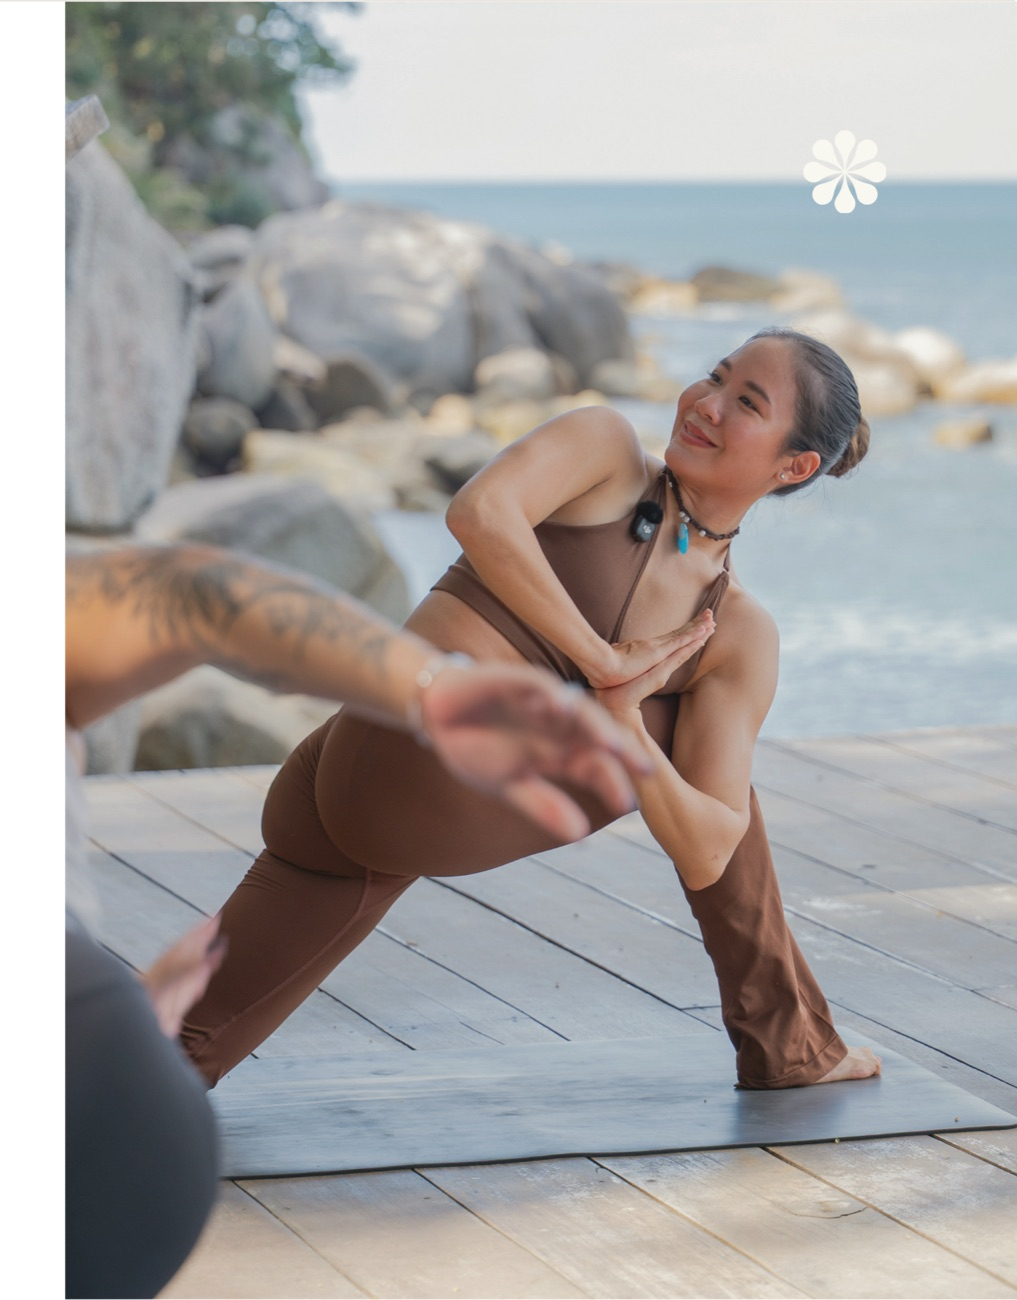
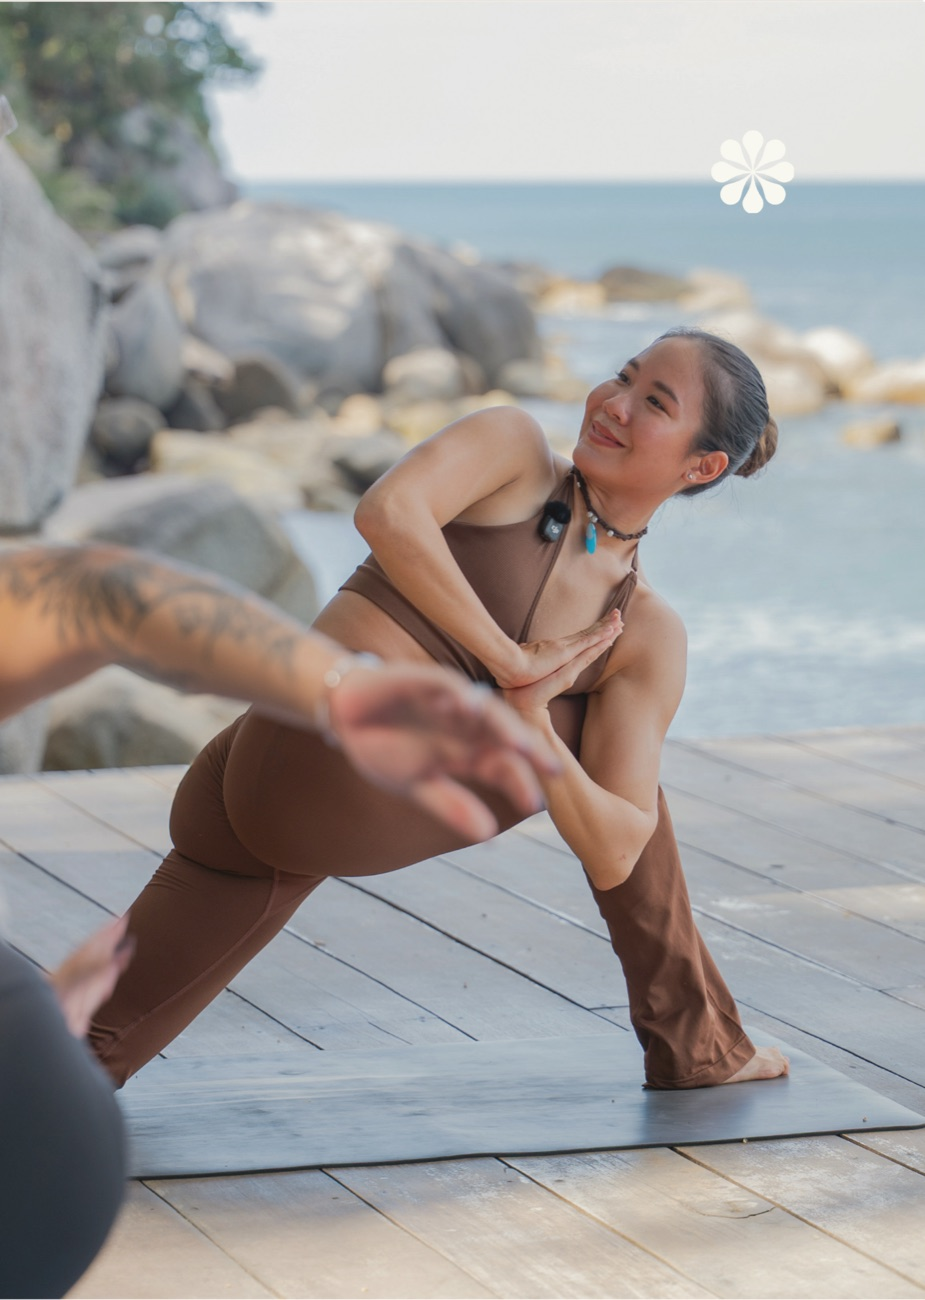
fix(home): match Canva exactly — MOVE / instructor / Glimpse / footer
Pulled the real Canva Home render (Canva MCP) and matched each section:
- MOVE: slate blue-grey text, subtitle breaks 'where island breeze / and ocean
  calm meet', real B&W 3-person beach photo (no CSS filter), square palm icon
  (palm-circle.png) in the lower-left corner.
- MEET YOUR INSTRUCTOR: 'Soulena Soul' larger than 'Simply move with';
  instructor photo re-cropped to remove the white border.
- Glimpse: title now curves around the photo cluster (A GLIMPSE INTO over the
  top, MY WORKING SPACE under the bottom) with overlapping circles.
- Footer: white text over a warmer overlay so the hands-and-flower photo reads.
- layout: suppressHydrationWarning on <body> (silences the Grammarly-extension
  hydration warning that showed as '1 Issue' in dev).

diff --git a/src/components/Footer.tsx b/src/components/Footer.tsx
@@ -5,7 +5,7 @@ import { FlowerIcon } from "@/components/icons/SocialIcons";
 
 function DiscountBadge() {
   return (
-    <div className="relative w-28 h-28 md:w-40 md:h-40 shrink-0 text-brand-charcoal">
+    <div className="relative w-28 h-28 md:w-40 md:h-40 shrink-0 text-white">
       <svg
         viewBox="0 0 100 100"
         className="w-full h-full [animation:spin_26s_linear_infinite]"
@@ -23,7 +23,7 @@ function DiscountBadge() {
       <div className="absolute inset-0 flex flex-col items-center justify-center text-center leading-none">
         <span className="text-[9px] md:text-[10px] uppercase tracking-wider">New Student</span>
         <span className="font-serif italic text-2xl md:text-3xl my-0.5">10%</span>
-        <span className="text-[6px] md:text-[7px] text-brand-charcoal/60 leading-tight">
+        <span className="text-[6px] md:text-[7px] text-white/70 leading-tight">
           *For Weekend
           <br />
           Beach Classes only
@@ -35,7 +35,7 @@ function DiscountBadge() {
 
 export default function Footer() {
   return (
-    <footer className="relative isolate overflow-hidden">
+    <footer className="relative isolate overflow-hidden text-white">
       {/* Hands-with-flowers background */}
       <Image
         src="/images/footer-hands.jpg"
@@ -44,18 +44,19 @@ export default function Footer() {
         sizes="100vw"
         className="object-cover object-center"
       />
-      <div className="absolute inset-0 bg-gradient-to-b from-brand-cream/70 via-brand-cream/25 to-brand-cream/60" />
+      {/* Warm overlay so the light photo reads as a mid-tone under white text */}
+      <div className="absolute inset-0 bg-gradient-to-b from-[#7c7463]/55 via-[#7c7463]/35 to-[#7c7463]/55" />
 
-      <div className="relative z-10 mx-auto max-w-[1200px] px-4 sm:px-6 pt-14 md:pt-20 pb-8">
+      <div className="relative z-10 mx-auto max-w-[1200px] px-4 sm:px-8 pt-16 md:pt-24 pb-8">
         {/* Headline + discount badge */}
         <div className="flex items-start justify-between gap-6">
           <div>
-            <h2 className="font-serif text-[34px] leading-[1.05] md:text-6xl text-brand-charcoal">
+            <h2 className="font-serif text-[38px] leading-[1.02] md:text-6xl text-white [text-shadow:0_1px_10px_rgba(60,52,40,0.35)]">
               Let&apos;s Practice
               <br />
               Together
             </h2>
-            <p className="mt-3 md:mt-4 italic tracking-[0.15em] text-brand-charcoal/55 text-sm md:text-lg">
+            <p className="mt-4 md:mt-5 tracking-[0.18em] text-white/80 text-sm md:text-lg">
               EXPLORE . FOLLOW ALONG
             </p>
           </div>
@@ -63,12 +64,12 @@ export default function Footer() {
         </div>
 
         {/* Navigation */}
-        <nav className="mt-12 md:mt-20 flex flex-wrap gap-x-6 md:gap-x-10 gap-y-2">
+        <nav className="mt-16 md:mt-28 flex flex-wrap gap-x-8 md:gap-x-14 gap-y-2">
           {NAV_LINKS.map((link) => (
             <Link
               key={link.href}
               href={link.href}
-              className="text-sm md:text-base uppercase tracking-wider text-brand-charcoal/80 underline-offset-8 hover:underline hover:text-brand-charcoal transition-colors"
+              className="text-sm md:text-base uppercase tracking-wider text-white/90 underline underline-offset-8 decoration-white/50 hover:text-white hover:decoration-white transition-colors"
             >
               {link.label}
             </Link>
@@ -77,15 +78,15 @@ export default function Footer() {
 
         {/* Tagline rule */}
         <div className="mt-8 flex items-center gap-4">
-          <FlowerIcon className="w-5 h-5 text-brand-olive/70 shrink-0" />
-          <span className="h-px flex-1 bg-brand-charcoal/20" />
-          <span className="text-[11px] md:text-xs uppercase tracking-[0.25em] text-brand-charcoal/55 whitespace-nowrap">
+          <FlowerIcon className="w-5 h-5 text-white/85 shrink-0" />
+          <span className="h-px flex-1 bg-white/35" />
+          <span className="text-[11px] md:text-xs uppercase tracking-[0.25em] text-white/75 whitespace-nowrap">
             Practice with Soulena Soul
           </span>
         </div>
 
         {/* Fine print */}
-        <div className="mt-5 flex flex-col sm:flex-row justify-between gap-1 text-[11px] text-brand-charcoal/45">
+        <div className="mt-5 flex flex-col sm:flex-row justify-between gap-1 text-[11px] text-white/55">
           <span>© {new Date().getFullYear()} Soulena Soul. All rights reserved.</span>
           <span>
             Made in{" "}
@@ -93,7 +94,7 @@ export default function Footer() {
               href="https://craftive.dev/?utm_source=soulenasoul&utm_medium=referral&utm_campaign=footer"
               target="_blank"
               rel="noopener noreferrer"
-              className="underline underline-offset-2 hover:text-brand-charcoal transition-colors"
+              className="underline underline-offset-2 hover:text-white transition-colors"
             >
               Craftive
             </a>

diff --git a/src/components/GlimpseGallery.tsx b/src/components/GlimpseGallery.tsx
@@ -1,50 +1,64 @@
 import Image from "next/image";
 
-type Size = "md" | "lg" | "xl";
-
-const SIZES: Record<Size, string> = {
-  md: "w-28 h-28 md:w-36 md:h-36",
-  lg: "w-32 h-32 md:w-44 md:h-44",
-  xl: "w-36 h-36 md:w-56 md:h-56",
-};
-
-const GLIMPSE: { src: string; size: Size; offset: string }[] = [
-  { src: "/images/gallery-1.jpg", size: "lg", offset: "md:mt-2" },
-  { src: "/images/gallery-3.jpg", size: "md", offset: "md:mt-9" },
-  { src: "/images/gallery-4.jpg", size: "xl", offset: "md:mt-16" },
-  { src: "/images/gallery-5.jpg", size: "md", offset: "md:mt-9" },
-  { src: "/images/gallery-6.jpg", size: "lg", offset: "md:mt-2" },
+const CLUSTER = [
+  { src: "/images/gallery-1.jpg", d: "w-40 h-40 md:w-40 md:h-40 z-10" },
+  { src: "/images/gallery-3.jpg", d: "w-36 h-36 md:w-36 md:h-36 -ml-5 md:-ml-6 mt-10 z-20" },
+  { src: "/images/gallery-4.jpg", d: "w-44 h-44 md:w-52 md:h-52 -ml-5 md:-ml-6 z-10" },
+  { src: "/images/gallery-5.jpg", d: "w-36 h-36 md:w-36 md:h-36 -ml-5 md:-ml-6 mt-10 z-20" },
+  { src: "/images/gallery-6.jpg", d: "w-40 h-40 md:w-40 md:h-40 -ml-5 md:-ml-6 z-10" },
 ];
+
+function Circle({ src, d }: { src: string; d: string }) {
+  return (
+    <div className={`relative shrink-0 rounded-full overflow-hidden ring-4 ring-[#98906f] shadow-xl ${d}`}>
+      <Image src={src} alt="" fill sizes="240px" className="object-cover" />
+    </div>
+  );
+}
 
 export default function GlimpseGallery() {
   return (
-    <section className="bg-[#8b8168] text-brand-cream py-16 md:py-24 px-4 overflow-hidden">
-      <div className="mx-auto max-w-[1080px]">
-        {/* Curved title */}
-        <svg viewBox="0 0 1000 180" className="w-full h-auto mb-4 md:mb-8" aria-hidden="true">
+    <section className="bg-[#7d7550] text-brand-cream py-16 md:py-24 px-4 overflow-hidden">
+      {/* Desktop — title curves around the photo cluster */}
+      <div className="relative mx-auto w-full max-w-[680px] aspect-square hidden md:block">
+        <svg viewBox="0 0 500 500" className="absolute inset-0 w-full h-full" aria-hidden="true">
           <defs>
-            <path id="glimpseArc" d="M 50 160 Q 500 10 950 160" fill="none" />
+            <path id="gTop" d="M 45 250 A 205 205 0 0 1 455 250" fill="none" />
+            <path id="gBot" d="M 45 250 A 205 205 0 0 0 455 250" fill="none" />
           </defs>
           <text
             className="fill-[#e7d8ac]"
-            style={{ fontFamily: "var(--font-serif)", fontSize: "52px", letterSpacing: "1px" }}
+            style={{ fontFamily: "var(--font-serif)", fontSize: "40px", letterSpacing: "7px" }}
           >
-            <textPath href="#glimpseArc" startOffset="50%" textAnchor="middle">
-              A Glimpse Into My Working Space
-            </textPath>
+            <textPath href="#gTop" startOffset="50%" textAnchor="middle">A&nbsp;GLIMPSE&nbsp;INTO</textPath>
+          </text>
+          <text
+            className="fill-[#e7d8ac]"
+            style={{ fontFamily: "var(--font-serif)", fontSize: "40px", letterSpacing: "7px" }}
+          >
+            <textPath href="#gBot" startOffset="50%" textAnchor="middle">MY&nbsp;WORKING&nbsp;SPACE</textPath>
           </text>
         </svg>
-        <h2 className="sr-only">A Glimpse Into My Working Space</h2>
+        <div className="absolute inset-0 flex items-center justify-center">
+          {CLUSTER.map((c) => (
+            <Circle key={c.src} src={c.src} d={c.d} />
+          ))}
+        </div>
+      </div>
 
-        {/* Overlapping circular cluster */}
-        <div className="flex flex-wrap justify-center items-center gap-y-5">
-          {GLIMPSE.map((g, i) => (
+      {/* Mobile — stacked title + wrapped circles */}
+      <div className="md:hidden text-center">
+        <p className="uppercase tracking-[0.35em] text-brand-cream/60 text-xs mb-2">A Glimpse Into</p>
+        <h2 className="font-serif text-3xl text-[#e7d8ac] mb-8">My Working Space</h2>
+        <div className="flex flex-wrap justify-center items-center gap-y-4">
+          {CLUSTER.map((c, i) => (
             <div
-              key={g.src}
-              className={`relative shrink-0 rounded-full overflow-hidden ring-4 ring-[#a89a78] shadow-xl -mx-2 md:-mx-4 ${SIZES[g.size]} ${g.offset}`}
-              style={{ zIndex: i % 2 ? 20 : 10 }}
+              key={c.src}
+              className={`relative shrink-0 rounded-full overflow-hidden ring-4 ring-[#98906f] shadow-lg -mx-2 ${
+                i % 2 ? "w-28 h-28" : "w-32 h-32"
+              }`}
             >
-              <Image src={g.src} alt="" fill sizes="240px" className="object-cover" />
+              <Image src={c.src} alt="" fill sizes="160px" className="object-cover" />
             </div>
           ))}
         </div>

diff --git a/src/components/AboutSection.tsx b/src/components/AboutSection.tsx
@@ -1,44 +1,48 @@
 import Image from "next/image";
 import { SECTION_IDS } from "@/lib/constants";
 
+// Canva uses a desaturated slate blue-grey for the Home headings/body.
+const SLATE = "#3f4c54";
+
 export default function AboutSection() {
   return (
     <section id={SECTION_IDS.about} className="py-14 md:py-20 px-4 bg-brand-cream">
       <div className="mx-auto max-w-[1200px] grid md:grid-cols-2 gap-12 md:gap-16 items-center">
-        <div>
-          <h2 className="font-serif text-4xl md:text-6xl text-brand-charcoal mb-3 uppercase">
-            Move
-          </h2>
-          <p className="font-serif text-2xl md:text-[32px] text-brand-charcoal/90 leading-snug mb-7">
-            where island breeze and ocean calm meet
+        <div style={{ color: SLATE }}>
+          <h2 className="font-serif text-5xl md:text-7xl mb-4 uppercase leading-none">Move</h2>
+          <p className="font-serif text-3xl md:text-[38px] leading-[1.15] mb-8">
+            where island breeze
+            <br />
+            and ocean calm meet
           </p>
-          <p className="text-brand-charcoal/80 leading-relaxed mb-4">
+          <p className="leading-relaxed mb-5 opacity-90">
             Are you looking for a way to reconnect with yourself through movement, breath,
             fresh air, and the rhythm of nature?
           </p>
-          <p className="text-brand-charcoal/80 leading-relaxed">
-            I&apos;m Soulena Soul, a yoga and movement teacher based in Phuket, Thailand,
-            helping people build strength, mobility, and deeper body awareness through
-            mindful movement.
+          <p className="leading-relaxed opacity-90">
+            I&apos;m Soulena Soul, a yoga and movement teacher based in{" "}
+            <strong className="font-semibold">Phuket, Thailand,</strong> helping people build
+            strength, mobility, and deeper body awareness through mindful movement.
           </p>
         </div>
         <div className="relative">
-          <div className="relative aspect-[4/5] rounded-2xl overflow-hidden">
+          <div className="relative rounded-2xl overflow-hidden shadow-sm">
             <Image
-              src="/images/gallery-2.jpg"
-              alt="Movement practice by the sea in Phuket"
-              fill
-              sizes="(min-width: 768px) 40vw, 100vw"
-              className="object-cover grayscale"
+              src="/images/move-photo.jpg"
+              alt="Beach yoga & movement class in Phuket"
+              width={556}
+              height={560}
+              sizes="(min-width: 768px) 45vw, 100vw"
+              className="w-full h-auto"
             />
           </div>
-          {/* Palm icon accent, overlapping the lower-left corner */}
+          {/* Palm icon overlapping the lower-left corner */}
           <Image
-            src="/images/palm-icon.png"
+            src="/images/palm-circle.png"
             alt=""
-            width={80}
-            height={80}
-            className="absolute bottom-6 -left-5 md:-left-7 w-16 h-16 md:w-20 md:h-20 drop-shadow-md"
+            width={96}
+            height={96}
+            className="absolute -bottom-4 -left-4 md:-bottom-5 md:-left-6 w-16 h-16 md:w-24 md:h-24"
           />
         </div>
       </div>

diff --git a/src/components/MeetInstructorSection.tsx b/src/components/MeetInstructorSection.tsx
@@ -7,10 +7,9 @@ export default function MeetInstructorSection() {
     <section className="py-14 md:py-20 px-4 bg-brand-cream">
       <div className="mx-auto max-w-[1200px] grid md:grid-cols-2 gap-12 items-center">
         <div className="order-2 md:order-1">
-          <p className="font-serif italic text-brand-olive text-lg md:text-xl leading-tight mb-3">
-            Simply move with
-            <br />
-            Soulena Soul
+          <p className="font-serif italic text-brand-olive mb-4 leading-tight">
+            <span className="block text-base md:text-lg">Simply move with</span>
+            <span className="block text-2xl md:text-4xl">Soulena Soul</span>
           </p>
           <h2 className="font-serif text-[27px] md:text-4xl text-brand-charcoal uppercase tracking-wider mb-6">
             Meet Your Instructor

diff --git a/src/app/layout.tsx b/src/app/layout.tsx
@@ -81,7 +81,7 @@ export default function RootLayout({
           dangerouslySetInnerHTML={{ __html: JSON.stringify(jsonLd) }}
         />
       </head>
-      <body className="antialiased">
+      <body className="antialiased" suppressHydrationWarning>
         <Header />
         <main>{children}</main>
         <Footer />
